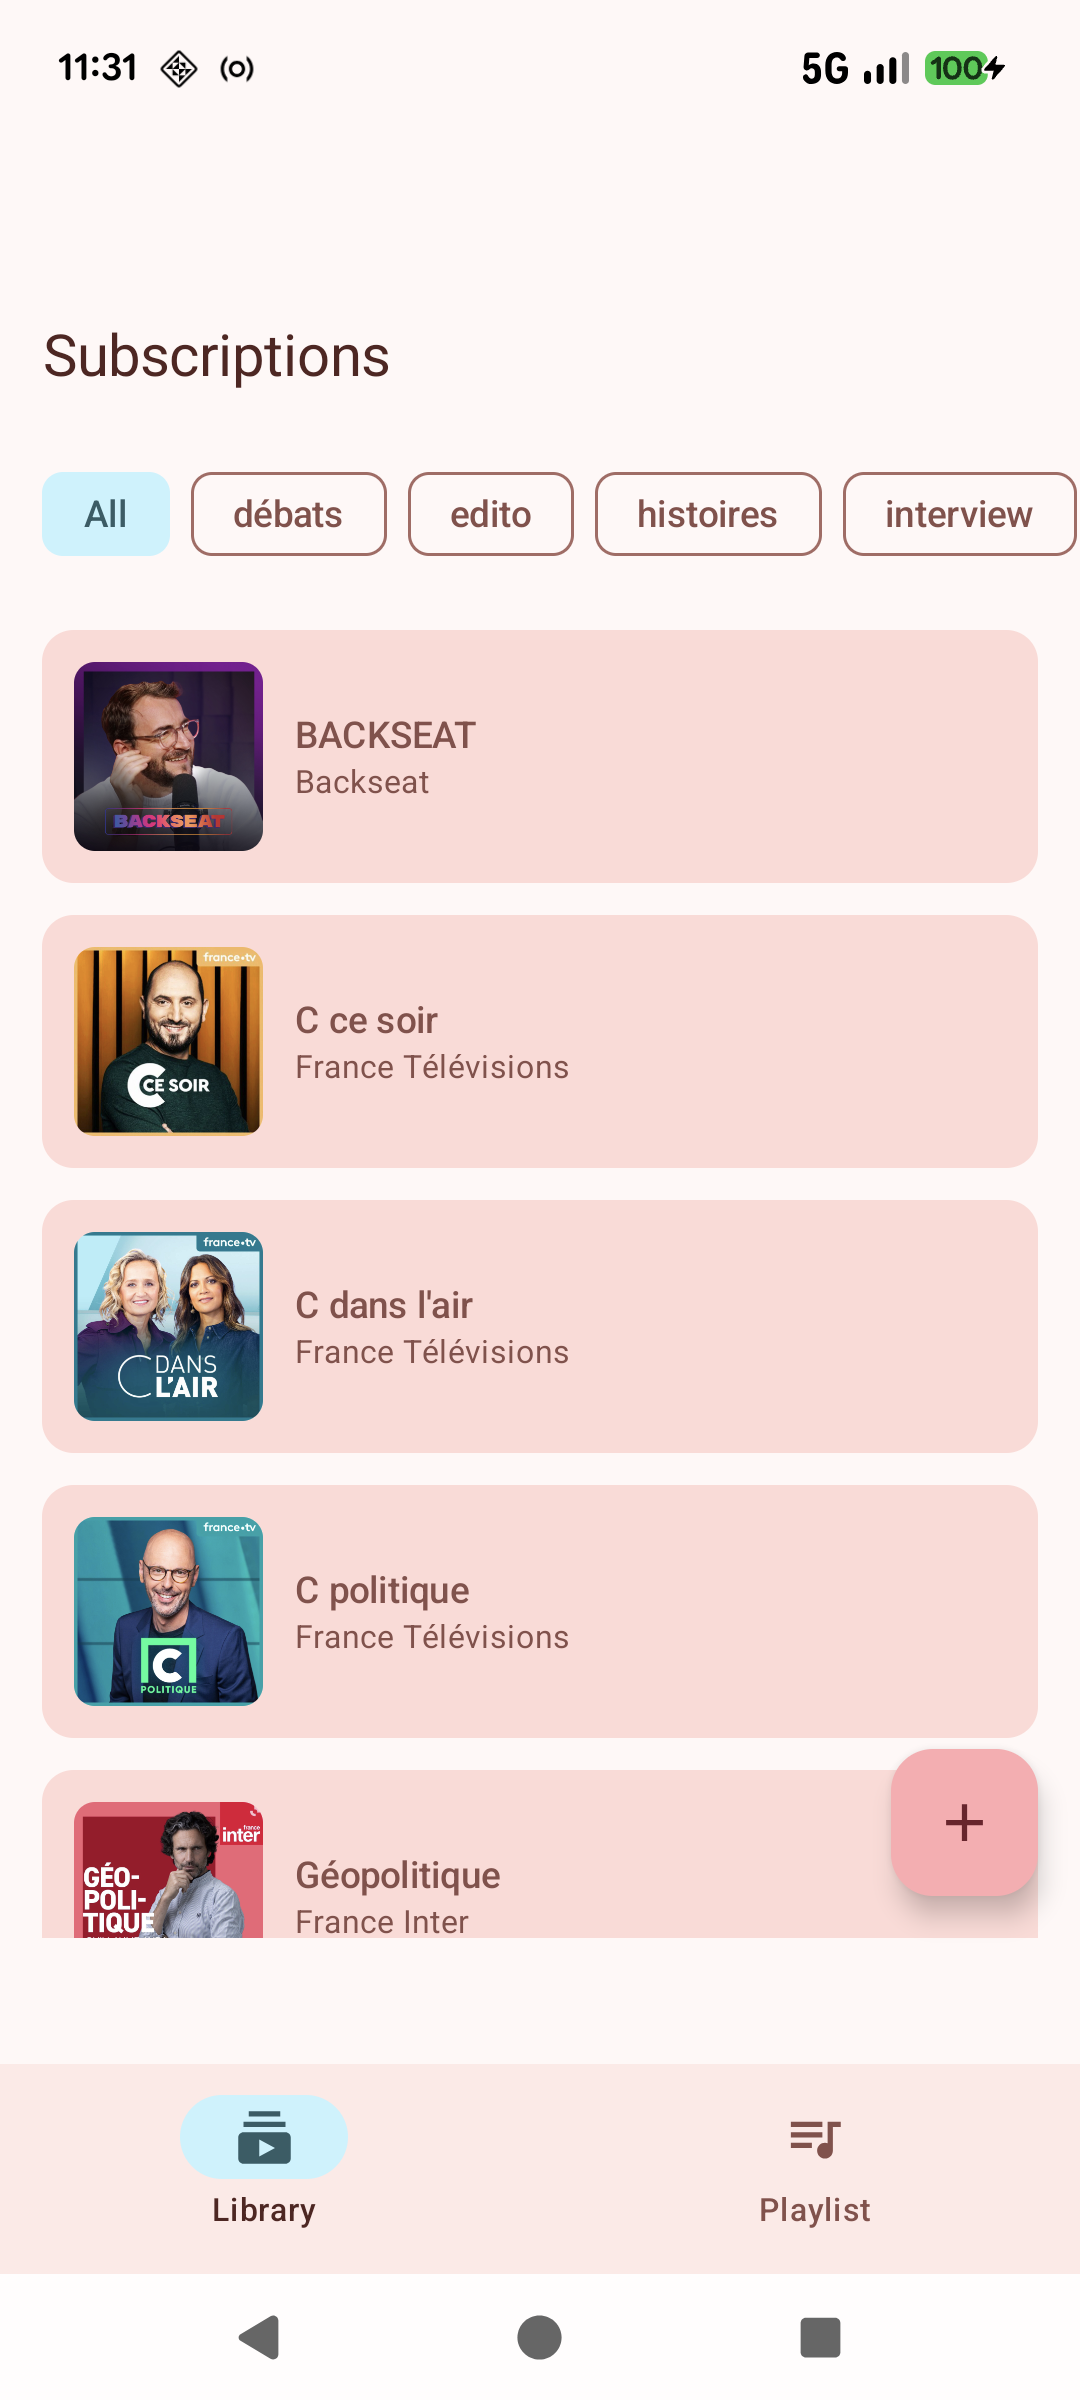
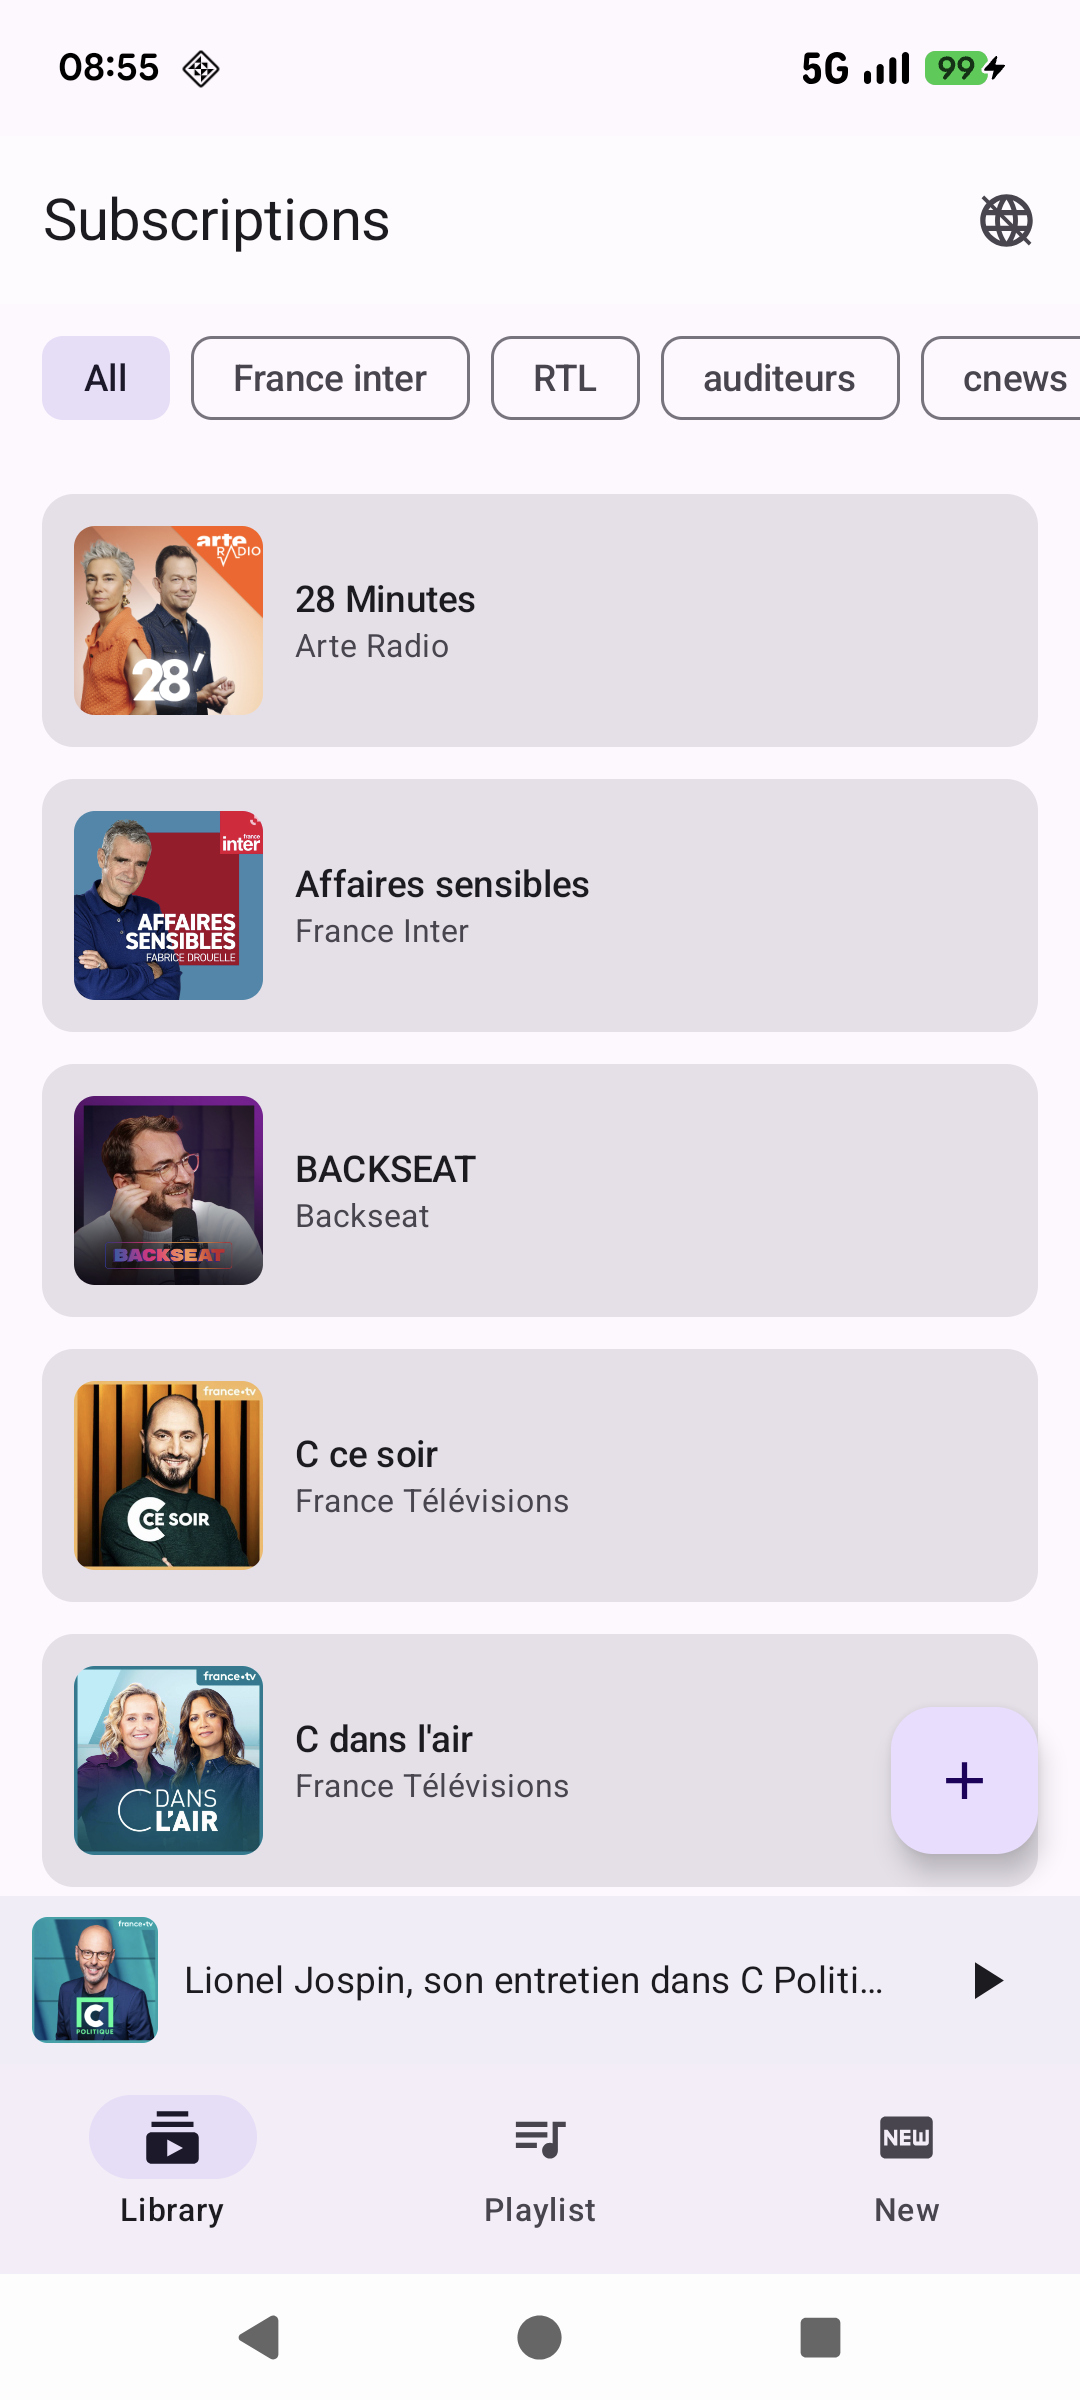
docs: update README with web server, AI features, new screenshots
- Rewrite README to cover web interface, AI discovery, new episodes, history
- Update tech stack table (Ktor, Gemini, Room v4)
- Update project structure with web/ and new screens
- Add instructions for web server, port forwarding, Gemini API key
- Add new_episodes screenshot, update library screenshot
- Rewrite screenshots.sh for automatic capture (WIP)

diff --git a/README.md b/README.md
@@ -1,19 +1,32 @@
 # Podcasto
 
-A full-featured podcast player for Android, built with Kotlin and Jetpack Compose.
+A full-featured podcast player for Android with an embedded web management interface, built with Kotlin and Jetpack Compose.
 
 ## Features
 
-- **Discover** -- Search for podcasts via the iTunes Search API, filter by country/market (FR, US, GB, DE, ES, IT, BR, JP), see which podcasts you're already subscribed to
-- **Subscribe** -- Follow your favorite podcasts and organize them with tags
-- **Browse episodes** -- View episode lists sorted by date, filter played/unplayed, now-playing indicator
+### Android App
+- **Discover** -- Search for podcasts via the iTunes Search API, filter by country (FR, US, GB, DE, ES, IT, BR, JP), AI-powered search suggestions via Gemini (opt-in)
+- **AI Discovery** -- Generate personalized podcast recommendations based on your library using Gemini 2.0 Flash
+- **Subscribe** -- Follow your favorite podcasts and organize them with custom tags
+- **Browse episodes** -- View episode lists sorted by date, filter played/unplayed, now-playing indicator, stale podcast detection (3+ months without new episodes)
 - **Playback** -- Stream or play downloaded episodes with Media3 (ExoPlayer), background playback with media notification and custom seek buttons (rewind 10s / forward 30s)
-- **Playlist** -- Queue episodes, drag-to-reorder (long press on handle), long press on episode to play directly, auto-fill with the latest unplayed episode from each subscription (or filtered by tag), auto-advance to next episode on completion, live progress bars
+- **Playlist** -- Queue episodes, drag-to-reorder, long press to play directly, auto-fill with the latest unplayed episode from each subscription (or filtered by tag), auto-advance to next episode, live progress bars
+- **New Episodes** -- Dedicated screen showing latest episodes from all subscriptions, with tag filtering and played/unplayed toggle
+- **Listening History** -- Track all listened episodes with timestamps
 - **Downloads** -- Download episodes for offline listening
 - **Bookmarks** -- Bookmark moments in episodes with comments, tap to seek
 - **Progress tracking** -- Playback position is saved and restored (including when switching episodes or using "Play All"), episodes are marked as played on completion and removed from playlist
 - **Apple Podcasts fallback** -- Podcasts without a feed URL in the iTunes API (e.g. Radio France) are resolved by scraping the Apple Podcasts web page
 - **Internationalization** -- Full English and French translations
+
+### Web Interface
+- **Embedded web server** -- Access your podcast library from any browser on the local network (Ktor CIO)
+- **Full library management** -- Browse subscriptions, episodes, subscribe/unsubscribe, tag management
+- **Web player** -- Play episodes directly in the browser with progress tracking
+- **Playlist management** -- View, reorder (drag & drop), auto-add episodes
+- **AI search & discovery** -- Same Gemini-powered features as the Android app
+- **Listening history** -- View and track listening history from the web
+- **New episodes** -- Browse latest episodes across all subscriptions
 
 ## Screenshots
 
@@ -24,9 +37,10 @@ A full-featured podcast player for Android, built with Kotlin and Jetpack Compos
   <img src="screenshots/04_episode_detail.png" width="180" alt="Episode Detail" />
   <img src="screenshots/05_player.png" width="180" alt="Player" />
   <img src="screenshots/06_playlist.png" width="180" alt="Playlist" />
+  <img src="screenshots/07_new_episodes.png" width="180" alt="New Episodes" />
 </p>
 
-The app uses Material 3 dynamic theming with a two-tab layout (Library + Playlist). Discover is accessed via a FAB button in the Library screen.
+The app uses a fixed Material 3 purple theme with a three-tab layout (Library, Playlist, New). Discover is accessed via a FAB button in the Library screen. The web server can be started/stopped from the Library toolbar.
 
 ## Tech Stack
 
@@ -35,29 +49,33 @@ The app uses Material 3 dynamic theming with a two-tab layout (Library + Playlis
 | UI | Jetpack Compose, Material 3 |
 | Navigation | Navigation Compose |
 | DI | Hilt |
-| Database | Room (SQLite) with versioned migrations |
+| Database | Room (SQLite) v4 with versioned migrations |
 | Network | Retrofit, OkHttp |
 | Media | Media3 / ExoPlayer |
 | Images | Coil |
 | Drag & drop | sh.calvin.reorderable |
+| Web Server | Ktor CIO 2.3.12 |
+| AI | Google Generative AI (Gemini 2.0 Flash) |
 
 ## Project Structure
 
 ```
 app/src/main/java/com/music/podcasto/
   data/
-    local/         -- Room entities, DAOs, database (v3 with migrations)
+    local/         -- Room entities, DAOs, database (v4 with migrations)
     remote/        -- iTunes API service, RSS parser, Apple Podcasts scraper
     repository/    -- PodcastRepository (single source of truth)
   di/              -- Hilt AppModule
   player/          -- PlayerManager (position saving, polling, auto-advance),
                       PlaybackService (Media3 with custom notification buttons)
   ui/screens/      -- Compose screens (Discover, Subscriptions, PodcastDetail,
-                      EpisodeDetail, Playlist, Player)
+                      EpisodeDetail, Playlist, Player, NewEpisodes, History)
+  web/             -- WebServerService, WebRoutes (Ktor REST API)
   MainActivity.kt
   PodcastoApp.kt   -- Hilt application
   PodcastoNavHost.kt
 
+app/src/main/assets/web/  -- Web UI (HTML/CSS/JS single-page app)
 app/src/main/res/
   values/          -- English strings (default)
   values-fr/       -- French translations
@@ -72,9 +90,26 @@ Requirements: Android SDK, a connected device or emulator (minSdk 26).
 ./run.sh
 
 # Or manually
-./gradlew assembleDebug
-adb install -r app/build/outputs/apk/debug/app-debug.apk
+./gradlew assembleRelease
+adb install -r app/build/outputs/apk/release/app-release.apk
 adb shell am start -n com.music.podcasto/.MainActivity
+```
+
+### Web Interface
+
+Start the web server from the Library screen toolbar (globe icon). The server URL is displayed in the toolbar and can be copied by tapping it. If your phone and computer are on the same network, access it directly. Otherwise, use USB port forwarding:
+
+```bash
+./portforward.sh   # adb forward tcp:8080 tcp:8080
+# Then open http://localhost:8080
+```
+
+### AI Features
+
+To enable AI-powered search and discovery, add your Gemini API key to `local.properties`:
+
+```properties
+GEMINI_API_KEY=your_key_here
 ```
 
 ## License
